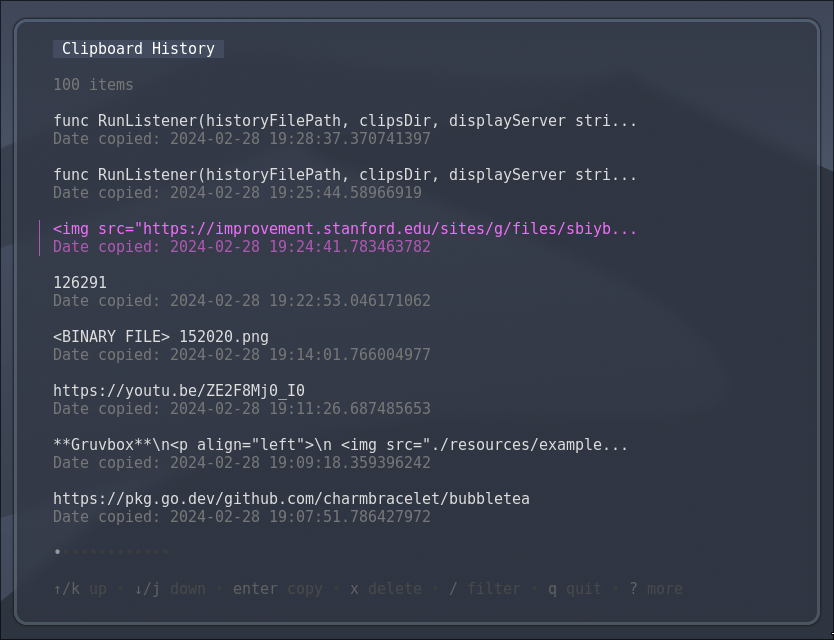
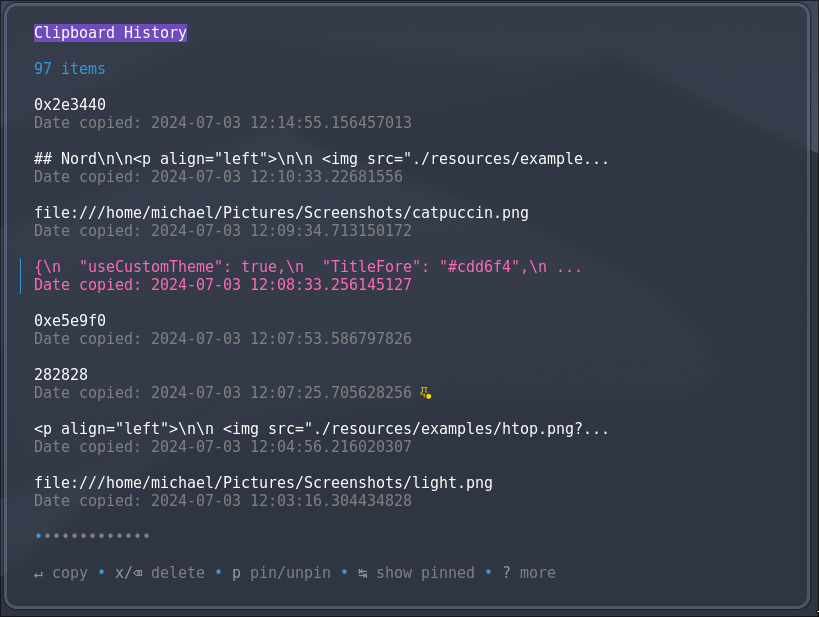
Fmt/docs (#93)
* chore: fmt nix pkg and features section

* chore: added img library

Changed region(s): [[0.0, 0.0, 1.0, 1.0], [0.5495, 0.4003, 0.6105, 0.4619]]

diff --git a/README.md b/README.md
@@ -38,9 +38,22 @@ __[BubbleTea](https://pkg.go.dev/github.com/charmbracelet/bubbletea)__
 
 Does not require any additional dependency, but may require you to use a terminal environment that's compatible with [termenv](https://github.com/muesli/termenv).
 
-# Features 
+# Features ✨
 
-### 1. Customization 🧰 
+- Persistent history
+- Supports text and image
+- [Customizable UI theme](#Customization)
+- [Customizable file paths](#Configuration)
+- [Customizable maximum history limit](#Configuration)
+- Filter items using a fuzzy find
+- Image and text previews
+- Mult-selection of items for copy and delete operations
+- Bulk copy all active filter matches
+- Pin items/pinned items view 
+- Vim-like keybindings for navigation available
+- [Run on any Unix machine](#Versatility) with single binary for the clipbboard monitor and TUI 
+
+### Customization 🧰 
 
 A customizable TUI allows you to easily match your system's theme. The app is based on your terminal's theme by default but is editable from a `custom_theme.json` file that gets created when the program is run for the first time. Some example themes (based on my terminal)...
 
@@ -48,7 +61,7 @@ An example `custom_theme.json` file:
 
 ```json
 {
-	"UseCustom":          false,
+	"UseCustom":          true,
 	"TitleFore":          "#ffffff",
 	"TitleBack":          "#6F4CBC",
 	"TitleInfo":          "#3498db",
@@ -81,42 +94,7 @@ See the [library]() for some example themes.
 
 You can also easily specify source config like custom paths and max history limit in the apps `config.json` file. For more information see [Configuration](#configuration) section.  
 
-### 2. Usability ✨
-
-Easily recall, add, and delete clipboard history via a smooth TUI experience built with Go's excellent [BubbleTea](https://pkg.go.dev/github.com/charmbracelet/bubbletea) library. As shown in the above video demo, the TUI offers the following features:
-
-- Filter items using a fuzzy find
-- Image and text previews
-- Mult-selection of items for copy and delete operations
-- Copy all filter matches at once
-- Pin items/pinned items view 
-- Vim-like keybindings for navigation available  
-
-Content can also be added explicitly from the command-line using the `-a` or `-c` flags. This would allow you to easily pipe any CLI output directly into your history with commands like:
-
-```shell
-
-ls /home | clipse -a
-
-``` 
-
-```shell
-
-clipse -a "a custom string value"
-
-```
-
-### 3. Efficiency 💥
-
-`clipse` is pretty selfless when it comes to CPU consumption and memory. The below image shows how little resources are required to run the background event listener used to continually update the history displayed in the TUI... 
-
-<p align="left">
-
-  <img src="./resources/examples/htop.png?raw=true" alt="Gruvbox" />
-
-</p>
-
-### 4. Versatility 🌐
+### Versatility 🌐
 
 The `clipse` binary, installable from the repository, can run on pretty much any Unix-based OS, though currently optimized for Linux. Being terminal-based also allows for easy integration with a window manager and configuration of how the TUI behaves. For example, binding a floating window to the `clipse` command as shown at the top of the page using [Hyprland window manager](https://hyprland.org/) on __NixOs__.
 
@@ -154,6 +132,7 @@ environment.systemPackages = [
 ```
 
 If building `clipse` from the unstable branch as a system package, I would suggest referencing [this article](https://discourse.nixos.org/t/installing-only-a-single-package-from-unstable/5598) for best practice. The derivation can also be built from source using the following: 
+
 ```nix
 { lib
 , buildGoModule
@@ -168,10 +147,10 @@ buildGoModule rec {
     owner = "savedra1";
     repo = "clipse";
     rev = "v${version}";
-    hash = "sha256-88GuYGJO5AgWae6LyMO/TpGqtk2yS7pDPS0MkgmJUQ4=";
+    hash = "sha256-9r/Ih73eYb45LYOu8HMXqdme/rUwLBI6+gctF603C2w=";
   };
 
-  vendorHash = "sha256-GIUEx4h3xvLySjBAQKajby2cdH8ioHkv8aPskHN0V+w=";
+  vendorHash = "sha256-QEBRlwNS8K44chB3fMOJZxYnIaWMnuDySIhKfF7XtxM=";
 
   meta = {
     description = "Useful clipboard manager TUI for Unix";
@@ -185,7 +164,7 @@ buildGoModule rec {
 ```
 
 ### Installing on Arch
-Shout out to [mcdenkijin](https://www.reddit.com/user/mcdenkijin/) for creating the AUR package!  
+Shout out to [@raininja](https://github.com/raininja) for creating and maintaining the AUR package!  
 
 **Installing with yay**
 ```shell
@@ -264,7 +243,7 @@ go build -o clipse
 
 ## Set up
 
-As mentioned earlier, to get the most out of `clipse` you'll want to bind the two key commands to your systems config. The first key command is to open the clipboard history TUI:
+As mentioned earlier, to get the most out of `clipse`, it's recommended to bind the two primary key commands to your system's config. The first key command is to open the clipboard history TUI:
 
 ```shell
 
@@ -347,6 +326,7 @@ The configuration capabilities of `clipse` will change as `clipse` evolves and g
 - Setting custom paths for:
   - The clipboard history file
   - The clipboard binaries directory (copied images and other binary data is stored in here)
+  - The debug log file
   - The clipboard UI theme file
 - Setting a custom max history limit 
 - Custom themes
@@ -431,7 +411,8 @@ The maximum item storage limit defaults at **100** but can be customized to anyt
 
 ## Contributing 🙏
 
-I would love to receive contributions to this project and welcome PRs from anyone and everyone. The following is a list of example future enhancements I'd like to implement:
+I would love to receive contributions to this project and welcome PRs from everyone. The following is a list of example future enhancements I'd like to implement:
+
 - [x] ~~Image previews in TUI view~~
 - [x] ~~Pinned items~~
 - [x] ~~Warn on deleting pinned items~~
@@ -444,8 +425,13 @@ I would love to receive contributions to this project and welcome PRs from anyon
 - [x] ~~Multi-select feature for copying multiple items at once~~
 - [ ] Categorized pinned items with _potentially_ different tabs/views  
 - [ ] System paste option _(building functionality to paste the chosen item directly into the next place of focus after the TUI closes)_
-- [ ] Packages for apt, dnf, brew etc
+- [ ] Packages for:
+  - [ ] apt 
+  - [ ] dnf 
+  - [ ] brew
+  - [ ] other
 - [ ] Theme/config adjustments made available via CLI
+- [ ] Your custom theme for the [library]() 
 - [ ] debug mode _(eg `clipse --debug` / debug file / system alert on panic)_
 - [ ] Cross compile binaries for `wl-clipboard`/`xclip` to remove dependency
 - [x] TUI / theming enhancements:
@@ -473,3 +459,4 @@ I would love to receive contributions to this project and welcome PRs from anyon
   ```
 
 <br>
+

diff --git a/resources/library.md b/resources/library.md
@@ -1,0 +1,56 @@
+
+## Nord
+
+<p align="left">
+
+  <img src="./examples/nord.png?raw=true" alt="Nord" />
+
+</p>
+
+## Gruvbox
+
+<p align="left">
+
+  <img src="./examples/gruvbox.png?raw=true" alt="Gruvbox" />
+
+</p>
+
+## Dracula
+
+<p align="left">
+
+  <img src="./examples/dracula.png?raw=true" alt="Dracula" />
+
+</p>
+
+## Catcppuccin
+
+<p align="left">
+
+  <img src="./examples/catppuccin.png?raw=true" alt="Catppuccin" />
+
+</p>
+
+## Tokyo Night
+
+<p align="left">
+
+  <img src="./examples/tokyo_night.png?raw=true" alt="TokyoNight" />
+
+</p>
+
+## Light
+
+<p align="left">
+
+  <img src="./examples/light.png?raw=true" alt="Light" />
+
+</p>
+
+## Default
+
+<p align="left">
+
+  <img src="./examples/default.png?raw=true" alt="Default" />
+
+</p>
